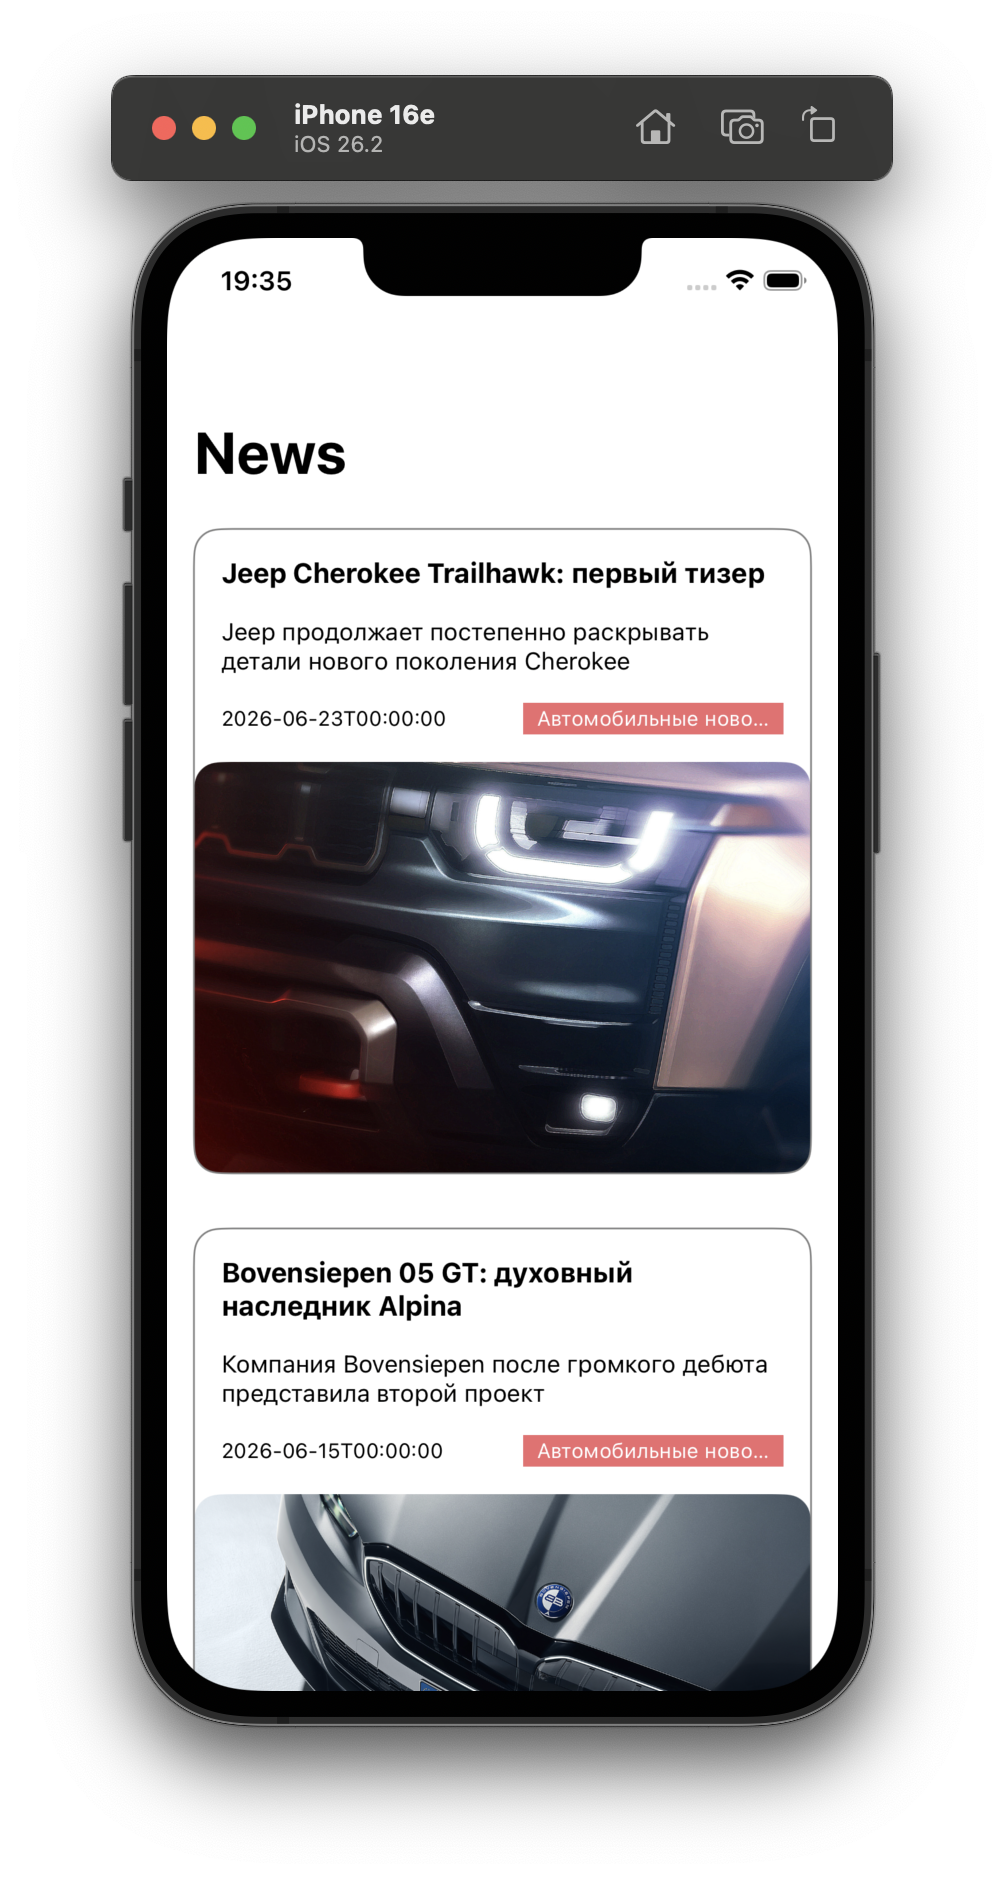
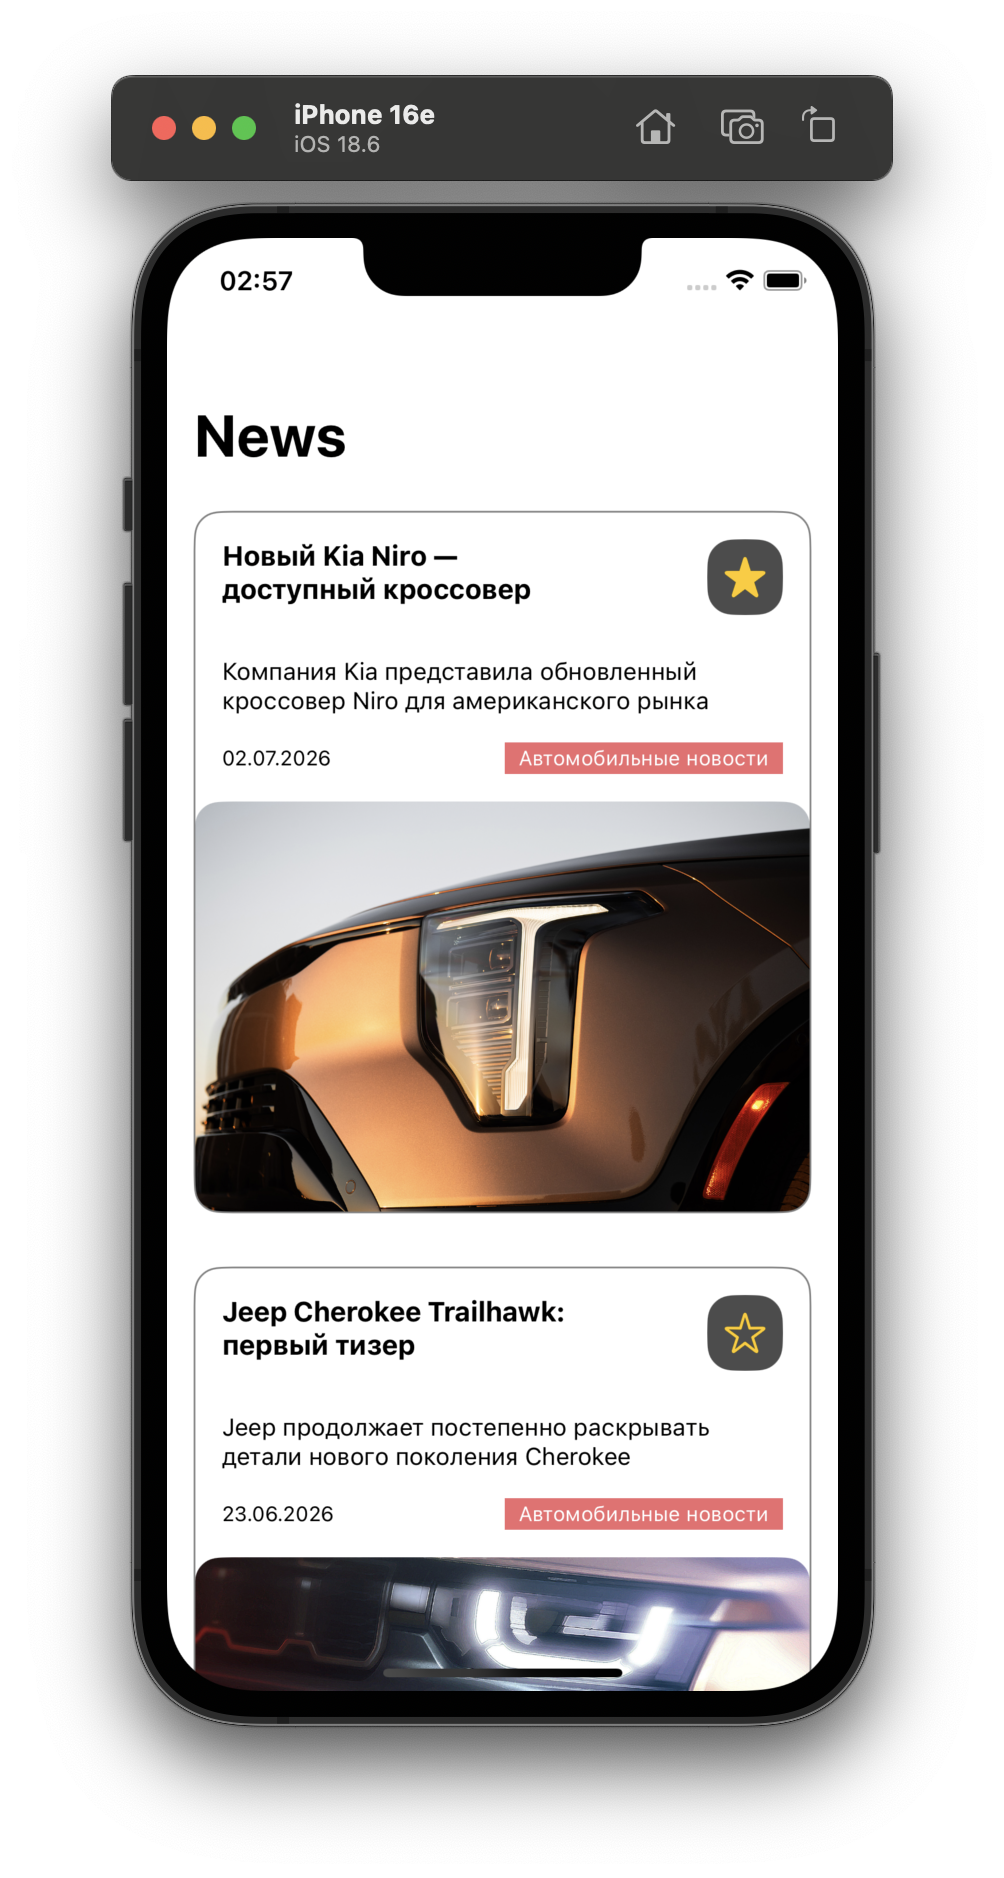
Add Favorite button for iOS (#12)

Changed region(s): [[0.1853, 0.2162, 0.8337, 0.9265], [0.2161, 0.1235, 0.2779, 0.1544], [0.3396, 0.0618, 0.3705, 0.0927]]

diff --git a/sharedLogic/src/commonMain/kotlin/com/autodoc/project/screens/NewsEntityViewModel.kt b/sharedLogic/src/commonMain/kotlin/com/autodoc/project/screens/NewsEntityViewModel.kt
@@ -1,10 +1,17 @@
 package com.autodoc.project.screens
 
+import com.rickclephas.kmp.nativecoroutines.NativeCoroutinesState
 import com.rickclephas.kmp.observableviewmodel.ViewModel
+import com.rickclephas.kmp.observableviewmodel.stateIn
 import com.rickclephas.kmp.observableviewmodel.launch
 
 import com.autodoc.project.repositories.NewsRepository
 import com.autodoc.project.services.news.NewsEntity
+
+import kotlinx.coroutines.flow.MutableStateFlow
+import kotlinx.coroutines.flow.SharingStarted
+import kotlinx.coroutines.flow.collectLatest
+import kotlinx.coroutines.flow.StateFlow
 
 import org.koin.core.component.KoinComponent
 import org.koin.core.component.inject
@@ -15,9 +22,33 @@ class NewsEntityViewModel(
 
     private val newsRepository: NewsRepository by inject()
 
-    fun addFavorite() {
+    private val _isFavorite = MutableStateFlow(false)
+
+    @NativeCoroutinesState
+    val isFavorite: StateFlow<Boolean> = _isFavorite.stateIn(
+        viewModelScope,
+        SharingStarted.WhileSubscribed(5000),
+        false
+    )
+
+    init {
         viewModelScope.launch {
-            newsRepository.add(entity)
+            newsRepository
+                .load(entity.id)
+                .collectLatest { entity ->
+                    _isFavorite.value = entity != null
+                }
+        }
+    }
+
+    fun tapFavorite() {
+        _isFavorite.value = !_isFavorite.value
+        viewModelScope.launch {
+            if (_isFavorite.value) {
+                newsRepository.add(entity)
+            } else {
+                newsRepository.delete(entity)
+            }
         }
     }
 }

diff --git a/sharedLogic/src/commonMain/kotlin/com/autodoc/project/repositories/NewsRepositoryImpl.kt b/sharedLogic/src/commonMain/kotlin/com/autodoc/project/repositories/NewsRepositoryImpl.kt
@@ -17,7 +17,15 @@ internal class NewsRepositoryImpl(
         dao.insert(entity)
     }
 
+    override suspend fun delete(entity: NewsEntity) {
+        dao.delete(entity)
+    }
+
     override fun load(): Flow<List<NewsEntity>> {
         return dao.getAllAsFlow()
+    }
+
+    override fun load(id: Int): Flow<NewsEntity?> {
+        return dao.getByIdAsFlow(id)
     }
 }

diff --git a/iosApp/iosApp/Sources/Classes/Views/HeaderFavoriteView/HeaderFavoriteView.swift b/iosApp/iosApp/Sources/Classes/Views/HeaderFavoriteView/HeaderFavoriteView.swift
@@ -3,6 +3,7 @@ import SwiftUI
 struct HeaderFavoriteView: View {
     
     let title: String
+    let isFavorite: Bool
     let onFavoriteAction: () -> Void
     
     var body: some View {
@@ -15,7 +16,7 @@ struct HeaderFavoriteView: View {
             }
             VStack {
                 Button(action: onFavoriteAction) {
-                    Image(systemName: "star")
+                    Image(systemName: isFavorite ? "star.fill" : "star")
                         .renderingMode(.original)
                         .resizable()
                         .frame(width: 24, height: 24)
@@ -23,7 +24,7 @@ struct HeaderFavoriteView: View {
                 }
                 .frame(width: 44, height: 44)
                 .background(Color.black.opacity(0.7))
-                .cornerRadius(15)                
+                .cornerRadius(15)
                 Spacer()
             }
         }

diff --git a/iosApp/iosApp/Sources/Classes/Views/News/NewsComponentView.swift b/iosApp/iosApp/Sources/Classes/Views/News/NewsComponentView.swift
@@ -1,8 +1,10 @@
+import KMPObservableViewModelSwiftUI
 import SharedLogic
 import SwiftUI
 
 struct NewsComponentView: View {
     
+    @StateViewModel
     var viewModel: NewsEntityViewModel
     
     let onFavoriteAction: () -> Void
@@ -24,6 +26,7 @@ struct NewsComponentView: View {
                     
                     HeaderFavoriteView(
                         title: viewModel.entity.title,
+                        isFavorite: viewModel.isFavorite,
                         onFavoriteAction: onFavoriteAction
                     )
                     

diff --git a/sharedLogic/src/commonMain/kotlin/com/autodoc/project/database/NewsDao.kt b/sharedLogic/src/commonMain/kotlin/com/autodoc/project/database/NewsDao.kt
@@ -21,4 +21,7 @@ internal interface NewsDao {
 
     @Query("SELECT * FROM NewsEntity")
     fun getAllAsFlow(): Flow<List<NewsEntity>>
+
+    @Query("SELECT * FROM NewsEntity WHERE id = :id")
+    fun getByIdAsFlow(id: Int): Flow<NewsEntity?>
 }

diff --git a/iosApp/iosApp/Sources/Classes/Views/ContentView/ContentView.swift b/iosApp/iosApp/Sources/Classes/Views/ContentView/ContentView.swift
@@ -16,7 +16,7 @@ struct ContentView: View {
             List {
                 ForEach(viewModel.newsEntityViewModels, id: \.self) { viewModel in
                     NewsComponentView(viewModel: viewModel) {
-                        viewModel.addFavorite()
+                        viewModel.tapFavorite()
                     } onTapAction: {
                         guard let url = URL(string: viewModel.entity.fullUrl) else { return }
                         path.append(.detail(url))

diff --git a/sharedLogic/src/commonMain/kotlin/com/autodoc/project/repositories/NewsRepository.kt b/sharedLogic/src/commonMain/kotlin/com/autodoc/project/repositories/NewsRepository.kt
@@ -5,5 +5,7 @@ import kotlinx.coroutines.flow.Flow
 
 interface NewsRepository {
     suspend fun add(entity: NewsEntity)
+    suspend fun delete(entity: NewsEntity)
     fun load(): Flow<List<NewsEntity>>
+    fun load(id: Int): Flow<NewsEntity?>
 }